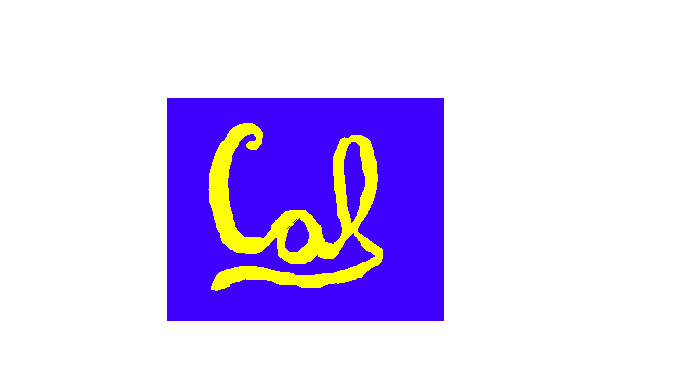
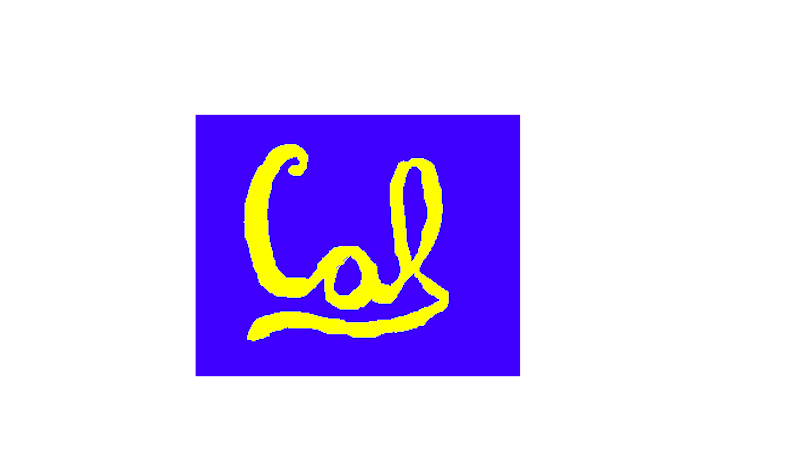
set height

diff --git a/index.html b/index.html
@@ -88,8 +88,8 @@
       }
       
       .center-image {
-        max-width: 200px;
-        height: auto;
+        height: 200px;
+        width: auto;
       }
       
       .text-content {
